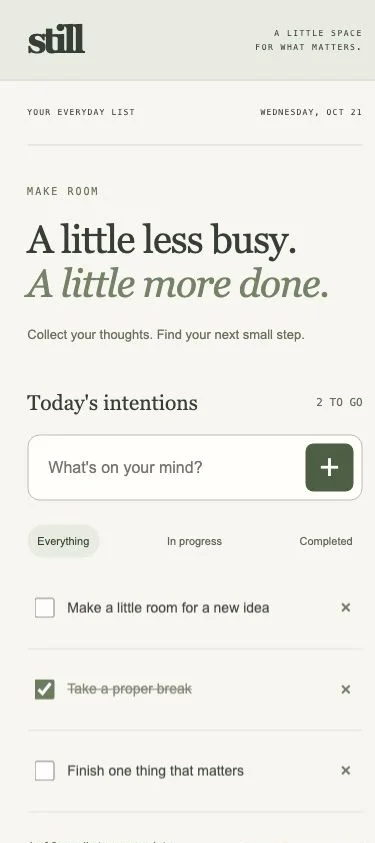
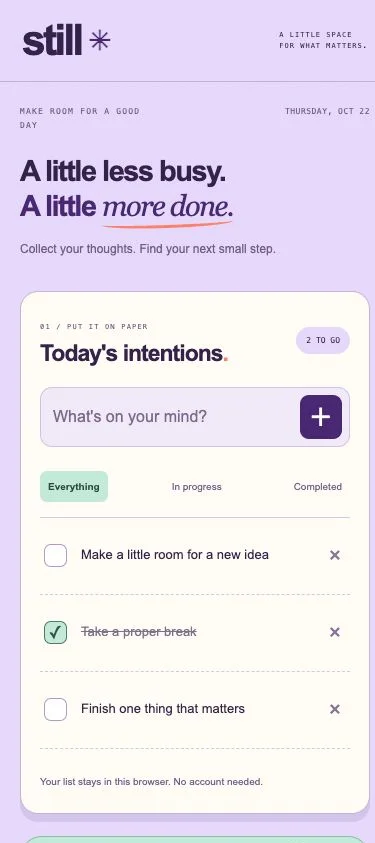
Refresh five case studies with distinct project designs

diff --git a/src/content/projects/still.md b/src/content/projects/still.md
@@ -1,9 +1,9 @@
 ---
-title: "Still"
-description: "A calm task list with local persistence, completion filters and a tactile sage-and-paper design."
+title: 'Still'
+description: 'A colorful task workspace with local persistence, completion filters and playful progress feedback.'
 category: 'Web app'
 builtWithAI: true
-tags: ["JavaScript", "Local storage", "DOM"]
+tags: ['JavaScript', 'Local storage', 'DOM']
 year: 2026
 order: 16
 status: 'Live'
@@ -11,16 +11,16 @@ visual: 'web'
 repository: 'https://github.com/GrimSyntaxCloud/javascript-showcase'
 demo: 'https://grimsyntaxcloud.github.io/javascript-showcase/still/'
 image: 'images/projects/still-home.webp'
-imageAlt: "Still task manager with sage navigation, paper-colored content and a stacked-stone illustration."
+imageAlt: 'Still task manager with a lavender workspace, cream task sheet, mint progress card and purple flower.'
 imageFit: 'contain'
 screenshots:
   - src: 'images/projects/still-home.webp'
-    alt: "Still task manager with sage navigation, paper-colored content and a stacked-stone illustration."
+    alt: 'Still task manager with a lavender workspace, cream task sheet, mint progress card and purple flower.'
     caption: 'The refreshed desktop interface preserves the original project workflow.'
-    width: 1600
-    height: 987
+    width: 1425
+    height: 1069
   - src: 'images/projects/still-mobile.webp'
-    alt: "Still on a narrow mobile screen."
+    alt: 'Still on a narrow mobile screen.'
     caption: 'The opening mobile view, checked for readable content and controls that fit.'
     width: 375
     height: 843
@@ -28,7 +28,7 @@ screenshots:
 
 ## The project
 
-Still is a quieter take on my earlier JavaScript to-do list. A sage sidebar, generous spacing and CSS stone artwork give a simple daily workflow room to breathe.
+Still gives my earlier JavaScript to-do list a colorful place to focus. A lavender dotted workspace holds a cream task sheet, mint progress card, coral sticker and a butter-yellow reminder. A CSS flower responds to completed tasks with a short celebratory motion.
 
 Add tasks, mark them complete, filter the list and remove finished items. Progress feedback helps show what is left without turning the page into a complicated dashboard.
 
@@ -40,4 +40,4 @@ This is a browser-local tool: it does not create accounts or synchronize tasks b
 
 ## Built together
 
-I worked with ChatGPT/Codex to recover the original functionality and redesign it around a calmer visual identity. We verified add, complete, filter, delete and reload persistence, then checked the narrow-screen layout. GitHub Pages serves the app without a backend or paid service.
+I worked with ChatGPT/Codex to recover the original functionality and redesign it around a playful, focused visual identity. We verified add, complete, filter, delete and reload persistence, then checked the narrow-screen layout. GitHub Pages serves the app without a backend or paid service.

diff --git a/src/content/projects/reading-room.md b/src/content/projects/reading-room.md
@@ -1,9 +1,9 @@
 ---
-title: "The Reading Room"
-description: "An Angular bookshop-style catalog with book details, search and a saved wishlist."
+title: 'The Reading Room'
+description: 'An Angular bookshop-style catalog with book details, search and a saved wishlist.'
 category: 'Web app'
 builtWithAI: true
-tags: ["Angular", "TypeScript", "Open Library"]
+tags: ['Angular', 'TypeScript', 'Open Library']
 year: 2026
 order: 17
 status: 'Live'
@@ -11,16 +11,16 @@ visual: 'web'
 repository: 'https://github.com/GrimSyntaxCloud/angular-showcase'
 demo: 'https://grimsyntaxcloud.github.io/angular-showcase/reading-room/'
 image: 'images/projects/reading-room-home.webp'
-imageAlt: "The Reading Room catalog with forest-green navigation, cream pages and illustrated book covers."
+imageAlt: 'The Reading Room with an ink-blue library index, parchment reading desk and dimensional illustrated books.'
 imageFit: 'contain'
 screenshots:
   - src: 'images/projects/reading-room-home.webp'
-    alt: "The Reading Room catalog with forest-green navigation, cream pages and illustrated book covers."
+    alt: 'The Reading Room with an ink-blue library index, parchment reading desk and dimensional illustrated books.'
     caption: 'The refreshed desktop interface preserves the original project workflow.'
-    width: 915
-    height: 1600
+    width: 1600
+    height: 739
   - src: 'images/projects/reading-room-mobile.webp'
-    alt: "The Reading Room on a narrow mobile screen."
+    alt: 'The Reading Room on a narrow mobile screen.'
     caption: 'The opening mobile view, checked for readable content and controls that fit.'
     width: 375
     height: 843
@@ -28,7 +28,7 @@ screenshots:
 
 ## The project
 
-The Reading Room recovers the In-N-Out Books app inside my Angular coursework. Its original nine-book catalog now lives in a forest-green and ivory bookshop layout, with typographic book artwork and an easier route into each title.
+The Reading Room recovers the In-N-Out Books app inside my Angular coursework. Its original nine-book catalog now lives on a parchment reading desk with an ink-blue library index, stacked book spines and individually illustrated jackets. Subtle opening effects and layered page edges give the bookshelf depth while keeping the catalog easy to browse.
 
 Explore the catalog, search for a book, open its details or add an entry to your wishlist. The wishlist is saved in the current browser.
 

diff --git a/src/content/projects/city-atlas.md b/src/content/projects/city-atlas.md
@@ -1,9 +1,9 @@
 ---
-title: "City Atlas"
-description: "An interactive D3 map exploring a historical sample of 50 U.S. cities."
+title: 'City Atlas'
+description: 'An interactive D3 map exploring a historical sample of 50 U.S. cities.'
 category: 'Web app'
 builtWithAI: true
-tags: ["D3", "JavaScript", "Data visualization"]
+tags: ['D3', 'JavaScript', 'Data visualization']
 year: 2026
 order: 20
 status: 'Live'
@@ -11,16 +11,16 @@ visual: 'web'
 repository: 'https://github.com/GrimSyntaxCloud/city-atlas'
 demo: 'https://grimsyntaxcloud.github.io/city-atlas/'
 image: 'images/projects/city-atlas-home.webp'
-imageAlt: "City Atlas with a paper-and-ink United States map, proportional city markers and a ranked city index."
+imageAlt: 'City Atlas with a midnight-blue map workspace, cyan markers, chartreuse selection and a city directory rail.'
 imageFit: 'contain'
 screenshots:
   - src: 'images/projects/city-atlas-home.webp'
-    alt: "City Atlas with a paper-and-ink United States map, proportional city markers and a ranked city index."
+    alt: 'City Atlas with a midnight-blue map workspace, cyan markers, chartreuse selection and a city directory rail.'
     caption: 'The refreshed desktop interface preserves the original project workflow.'
-    width: 1265
-    height: 1400
+    width: 1425
+    height: 1069
   - src: 'images/projects/city-atlas-mobile.webp'
-    alt: "City Atlas on a narrow mobile screen."
+    alt: 'City Atlas on a narrow mobile screen.'
     caption: 'The opening mobile view, checked for readable content and controls that fit.'
     width: 375
     height: 843
@@ -28,7 +28,7 @@ screenshots:
 
 ## The project
 
-City Atlas recovers the D3 mapping exercise from my Emerging-tech coursework. A paper-and-ink cartographic layout puts the map, selected city and searchable index into one responsive workspace.
+City Atlas recovers the D3 mapping exercise from my Emerging-tech coursework. A midnight-blue urban observatory puts a cyan map, chartreuse city selection and searchable directory into a single cartographic workspace. A selection reticle adds a focused visual response as you explore; the mobile layout places the map above the directory.
 
 Explore 50 cities, filter the top 10 or 25, toggle state labels, step through the selection or download the CSV. Marker area remains proportional to population.
 

diff --git a/src/content/projects/eny-salon.md b/src/content/projects/eny-salon.md
@@ -11,14 +11,14 @@ visual: 'web'
 repository: 'https://github.com/GrimSyntaxCloud/eny-salon'
 demo: 'https://zealous-grass-00a9b990f.3.azurestaticapps.net/'
 image: 'images/projects/eny-salon-home.webp'
-imageAlt: 'Eny Salon with cream and copper colors, editorial typography and salon line artwork.'
+imageAlt: 'Eny Salon with a giant peach masthead, aubergine background, sculptural satin artwork and curved rose sections.'
 imageFit: 'contain'
 screenshots:
   - src: 'images/projects/eny-salon-home.webp'
-    alt: 'Eny Salon with cream and copper colors, editorial typography and salon line artwork.'
+    alt: 'Eny Salon with a giant peach masthead, aubergine background, sculptural satin artwork and curved rose sections.'
     caption: 'The redesigned desktop experience.'
-    width: 1600
-    height: 739
+    width: 1425
+    height: 990
   - src: 'images/projects/eny-salon-mobile.webp'
     alt: 'Eny Salon on a narrow mobile screen.'
     caption: 'A closer look at the responsive mobile experience.'
@@ -28,7 +28,7 @@ screenshots:
 
 ## The project
 
-Eny Salon began as my PHP salon-booking coursework. The recovery keeps its original services and prices, giving the experience a warm cream, copper and sage identity with original salon artwork.
+Eny Salon began as my PHP salon-booking coursework. The recovery keeps its original services and prices, giving the experience a bold aubergine-and-peach beauty-studio identity. A giant ENY masthead, sculptural satin artwork, horizontal service rows and curved rose sections establish a distinct layout across the booking and staff workflows.
 
 Explore the service menu, choose an available appointment, enter fictional customer details and try the staff workspace. Appointment editing, rescheduling, availability management and a message inbox demonstrate the complete workflow.
 

diff --git a/src/content/projects/interval.md b/src/content/projects/interval.md
@@ -11,24 +11,24 @@ visual: 'web'
 repository: 'https://github.com/GrimSyntaxCloud/javascript-showcase'
 demo: 'https://lively-desert-0d824e10f.2.azurestaticapps.net/'
 image: 'images/projects/interval-home.webp'
-imageAlt: 'Interval event page with lilac and apricot panels, editorial type and a registration form.'
+imageAlt: 'Interval event poster with acid-yellow typography, cobalt statistics, pink registration and optical ring artwork.'
 imageFit: 'contain'
 screenshots:
   - src: 'images/projects/interval-home.webp'
-    alt: 'Interval event page with lilac and apricot panels, editorial type and a registration form.'
+    alt: 'Interval event poster with acid-yellow typography, cobalt statistics, pink registration and optical ring artwork.'
     caption: 'The redesigned desktop experience.'
     width: 1600
-    height: 739
+    height: 791
   - src: 'images/projects/interval-mobile.webp'
     alt: 'Interval on a narrow mobile screen.'
     caption: 'A closer look at the responsive mobile experience.'
     width: 375
-    height: 843
+    height: 812
 ---
 
 ## The project
 
-Interval recovers my JavaScript event-registration exercise as a fictional creative event. An editorial layout, lilac and apricot palette, and dimensional CSS artwork give the form and statistics a shared identity.
+Interval recovers my JavaScript event-registration exercise as a fictional creative event. An oversized festival-poster layout uses acid yellow, cobalt and hot pink, optical ring artwork and a ticket-style registration form. Motion can be paused and respects reduced-motion preferences.
 
 Use the fictional sample-fill option, submit the form and explore the three statistics views. The server validates the request and returns a clear result.
 
